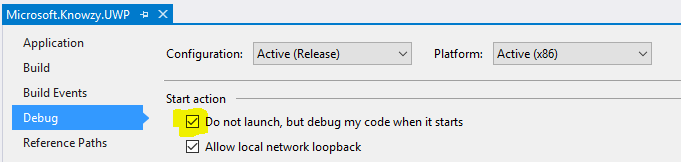
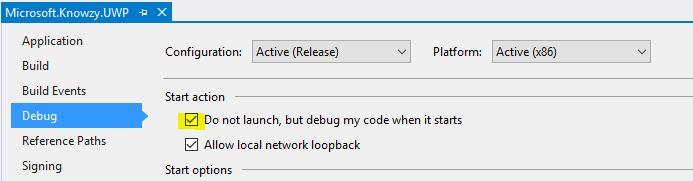
more debuging settings

diff --git a/stories/2/212_Debugging.md b/stories/2/212_Debugging.md
@@ -136,7 +136,7 @@ You should then be able to build and run the app.
 ![Exception](images/212-exception.png)
 
 For some reason, our UWP app is unable to load the Project.json file and it appears that our app is looking for the file in the wrong directory. This is a common problem with newly converted Desktop Bridge apps.
-Depending on how the code is written, the app may be trying to load files from the wrong location. We will fix this in the [next task](213_AddUwp.md).
+Depending on how the code is written, the app may be trying to load files from the wrong location. We will fix this in the next task.
 
 Step 4: Additional Debugging Settings
 
@@ -149,6 +149,19 @@ In order to be able to easily debug both both the WPF and UWP portions of our ap
 * Click on **Debugging | General** and turn off the **Enable Just My Code** options
 
 ![Just My Code](images/212-just-my-code.png)
+
+* Right-click on the Microsoft.Knowzy.UWP project and select **Properties**.
+
+* Select the **Build** tab and turn off **Optimize Code**
+
+![Optimize Code](images/212-optimize-code.png)
+
+* Select the **Debug** tab and turn on **Do not launch, but debug my code when it starts**
+
+![Optimize Code](images/212-do-not-launch.png)
+
+
+We will now fix the products.json issue in the [next task](213_AddUwp.md).
 
 
 ## References
